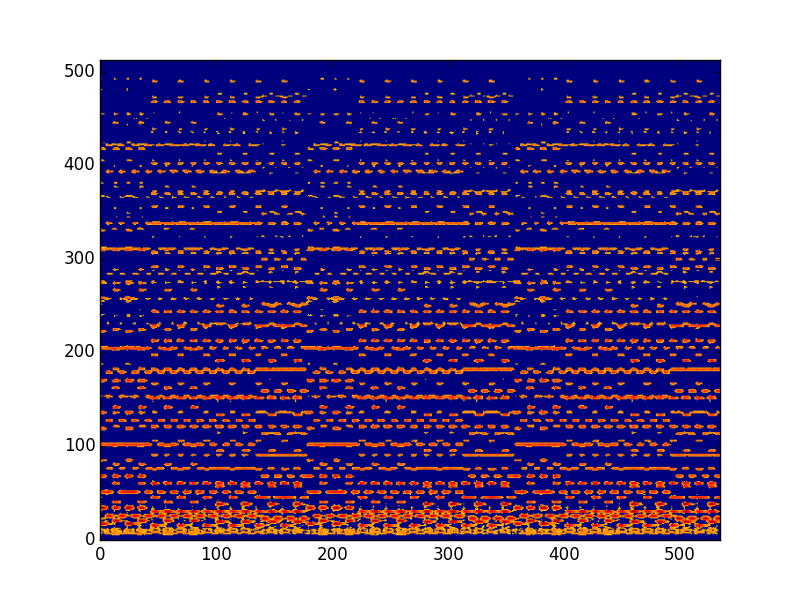
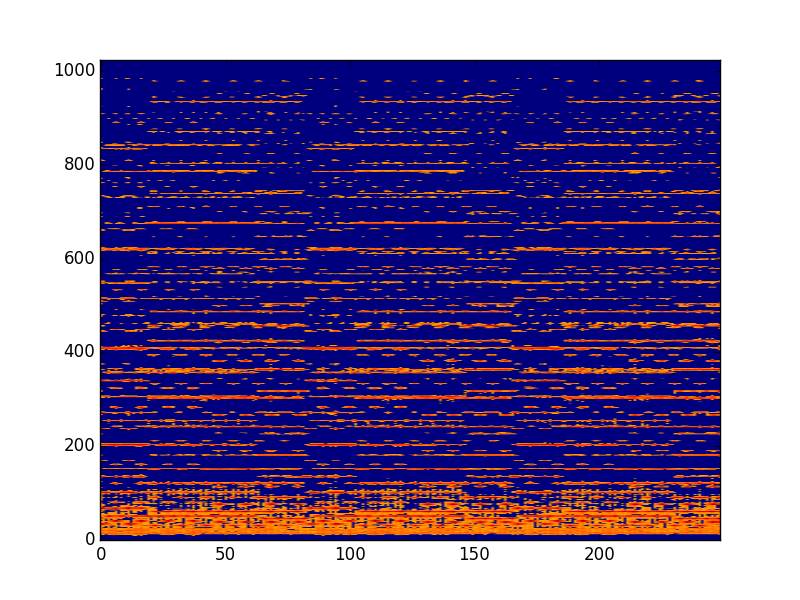
Add comptine 0.5s with 1024 neurons instead of 512

diff --git a/brian_hears.py b/brian_hears.py
@@ -30,7 +30,7 @@ if args.interactive:
 
 plt.figure()
 (pxx, freqs, bins, im) = \
-    pylab.specgram(x=sound.flatten(), NFFT=1024, Fs=sound.samplerate)
+    pylab.specgram(x=sound.flatten(), NFFT=2048, Fs=sound.samplerate)
 n_freqs = len(freqs)
 plt.savefig('figures/%s_spectrogram.png' % input_name)
 spectral_power = 10 * np.log10(pxx)
